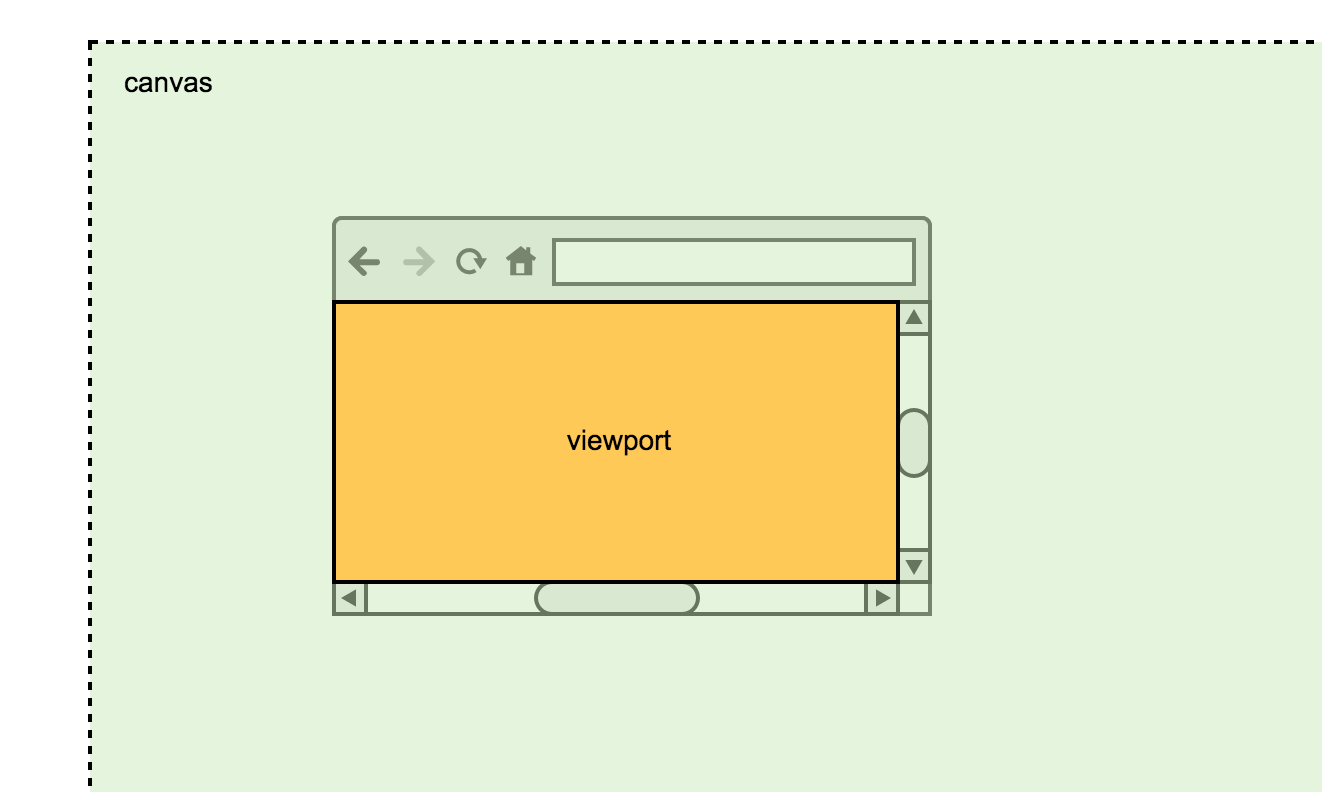
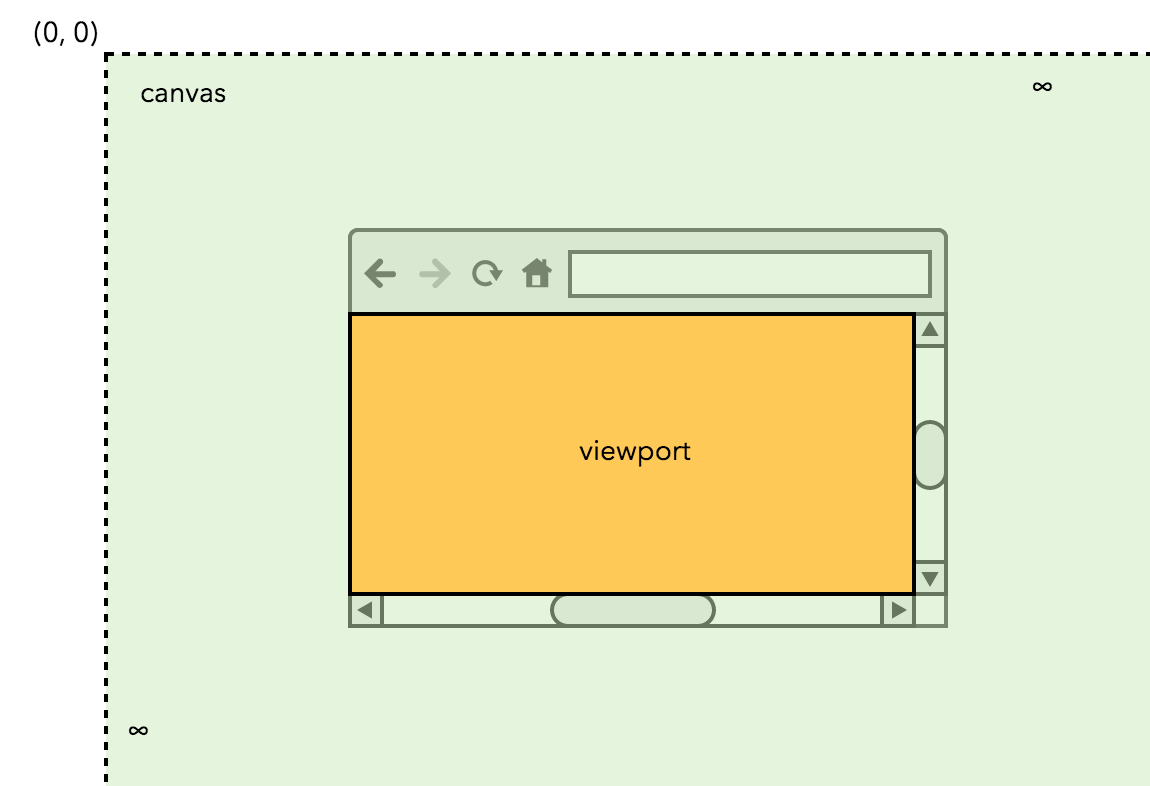
add content

Changed region(s): [[0.2435, 0.2748, 0.8217, 0.8244], [0.0304, 0.0305, 1.0, 1.0], [0.4261, 0.5496, 0.6087, 0.6107]]

diff --git a/writing-css/index.html b/writing-css/index.html
@@ -106,6 +106,7 @@
                         <li><span class="fa fa-check"></span> General knowledge</li>
                         <li><span class="fa fa-check"></span> Syntax</li>
                         <li><span class="fa fa-check"></span> Cascading</li>
+                        <li><span class="fa fa-check"></span> Values &amp; units</li>
                         <li><span class="fa fa-check"></span> Layout basics</li>
                         <li><span class="fa fa-close"></span> Rendering details</li>
                     </ul>
@@ -527,13 +528,13 @@ a {
                         <figure><img src="img/rotate.png" alt="Rotate images according to its list order." style="width: 60%;"></figure>
                         <figure class="fragment" style="position: absolute; right: 20px; bottom: 0; width: 540px;">
                             <pre><code class="css">div:nth-child(2n+1) {
-    -webkit-transform: rotate(-10deg);
+    transform: rotate(-10deg);
 }
 div:nth-child(2n+2) {
-    -webkit-transform: rotate(10deg);
+    transform: rotate(10deg);
 }
 div:nth-child(2n+3) {
-    -webkit-transform: rotate(0);
+    transform: rotate(0);
 }
 </code></pre>
                         </figure>
@@ -649,13 +650,30 @@ p.row :hover {
                     <section>
                         <h3>Defaulting</h3>
                         <ul class="fragment">
-                            <li>initial value</li>
-                            <li>inherited value</li>
-                            <li><code>inherit</code> keyword</li>
+                            <li class="fragment">initial value</li>
+                            <li class="fragment">inherited value</li>
+                            <li class="fragment"><code>inherit</code> keyword</li>
                         </ul>
+                        <p class="fragment"><em>Computed value</em> of the parent element</p>
+                        <pre class="fragment"><code class="css">.post {
+    font-size: 16px;
+    line-height: 2;    /* Which   */
+    line-height: 200%; /* to      */
+    line-height: 2em;  /* choose? */
+}
+</code></pre>
+                    </section>
+
+                    <section>
+                        <h4>Inherited value</h4>
                         <figure class="fragment">
-                            <img src="img/line-height.png" alt="line-height is defined with inital value of normal and is inherited.">
+                            <img src="img/line-height.png" alt="line-height is defined with initial value of normal and is inherited.">
                         </figure>
+                        <ul>
+                            <li class="fragment"><code>font-size: 2</code><br>Specified → <code>2</code></li>
+                            <li class="fragment"><code>font-size: 200%</code><br><code>font-size: 2em</code><br>Absolute → 2 * 16px = <code>32px</code></li>
+                        </ul>
+                        <p class="fragment"></p>
                     </section>
 
                     <section>
@@ -665,6 +683,7 @@ p.row :hover {
                             <li class="fragment">Origin/importance > specificity > order</li>
                             <li class="fragment">Author > user > UA, <em>reversed</em> when important</li>
                             <li class="fragment">Count <em>simple selectors/pseudo elements</em> to calculate specificity</li>
+                            <li class="fragment">Inherited values are <em>computed values</em> of the parent</li>
                         </ul>
                     </section>
 
@@ -725,7 +744,7 @@ p.row :hover {
 
                     <section>
                         <h4>Relative lengths</h4>
-                        <p><code>em</code>, <code>ex</code>, <code>ch</code>, <code>rem</code>, <code>vw</code>, <code>vh</code>, ...</p>
+                        <p class="fragment"><code>em</code>, <code>ex</code>, <code>ch</code>, <code>rem</code>, <code>vw</code>, <code>vh</code>, ...</p>
                         <figure class="fragment">
                             <img class="transparent" src="img/ex-ch.png" alt="ex is the x-height, ch is the width of character &quot;0&quot;" style="height: 360px;">
                             <figcaption><code>ex</code> and <code>ch</code></figcaption>
@@ -744,9 +763,9 @@ p.row :hover {
                     <section>
                         <h4>Colors: <span class="type">color</span></h4>
                         <ul>
-                            <li>Keywords<br><small><code style="color: lightgreen;">lightgreen</code>, <code style="color: gold">gold</code>, <code>currentColor</code>, <code style="color: transparent;">transparent</code> <sup>← transparent</sup>, ...</small></li>
-                            <li>Hexadecimal notation<br><small><code style="color: #69c;">#69c</code>, <code style="color: #abcdef;">#abcdef</code>, ...</small></li>
-                            <li>Functional notation<br><small><code style="color: rgb(200, 150, 100);">rgb(200, 150, 100)</code>, <code style="color: hsla(120, 100%, 50%, 0.5);">hsla(120, 100%, 50%, 0.5)</code>, ...</small></li>
+                            <li class="fragment">Keywords<br><small><code style="color: lightgreen;">lightgreen</code>, <code style="color: gold">gold</code>, <code>currentColor</code>, <code style="color: transparent;">transparent</code> <sup>← transparent</sup>, ...</small></li>
+                            <li class="fragment">Hexadecimal notation<br><small><code style="color: #69c;">#69c</code>, <code style="color: #abcdef;">#abcdef</code>, ...</small></li>
+                            <li class="fragment">Functional notation<br><small><code style="color: rgb(200, 150, 100);">rgb(200, 150, 100)</code>, <code style="color: hsla(120, 100%, 50%, 0.5);">hsla(120, 100%, 50%, 0.5)</code>, ...</small></li>
                         </ul>
                         <p class="fragment"><small>See more in <a href="http://dev.w3.org/csswg/css-color/">CSS Color Module Level 4</a>.</small></p>
                     </section>
@@ -778,7 +797,7 @@ p.row :hover {
 
                     <section>
                         <h2>Layout Basics</h2>
-                        <figure>
+                        <figure class="fragment">
                             <img src="img/canvas-viewport.png" alt="canvas and viewport" style="height: 380px;">
                             <figcaption>The canvas (not <code>&lt;canvas&gt;</code>) and the viewport</figcaption>
                         </figure>
@@ -808,9 +827,9 @@ p.row :hover {
                     <section>
                         <h3>Positioning Schemes</h3>
                         <ul>
-                            <li>Normal flow</li>
-                            <li>Floats</li>
-                            <li>Absolute positioning</li>
+                            <li class="fragment">Normal flow</li>
+                            <li class="fragment">Floats</li>
+                            <li class="fragment">Absolute positioning</li>
                         </ul>
                         <p class="fragment">Determined by <code>position</code> and <code>float</code></p>
                     </section>
@@ -892,15 +911,76 @@ p.row :hover {
 
                     <section>
                         <h4><code>position: absolute</code></h4>
+                        <ul>
+                            <li class="fragment">Closest parent with <code>position</code> other than <code>static</code><br><span class="fragment">or with <code>transform</code> other than <code>none</code></span></li>
+                        </ul>
+                        <figure class="fragment" style="margin-top: 0;">
+                            <img src="img/icb.png" alt="Initial containing block starts from the origin of the canvas and has the same size of the viewport." style="height: 380px;">
+                            <figcaption>no such parent → initial containing block</figcaption>
+                        </figure>
+                    </section>
 
+                    <section>
+                        <h5>Initial containing block</h5>
+                        <div data-height="320" data-theme-id="0" data-slug-hash="dooBPz" data-default-tab="css" data-user="Justineo" class='codepen'><pre><code>body {
+  width: 120%;
+  background-color: khaki;
+}
+
+.box {
+  position: absolute;
+  bottom: 10px;
+  right: 10px;
+  width: 64px;
+  height: 64px;
+  background-color: lightgreen;
+}
+</code></pre>
+<p>See the Pen <a href='http://codepen.io/Justineo/pen/dooBPz/'>dooBPz</a> by GU Yiling (<a href='http://codepen.io/Justineo'>@Justineo</a>) on <a href='http://codepen.io'>CodePen</a>.</p>
+                    </section>
+
+                    <section>
+                        <h4><code>position: fixed</code></h4>
+                        <ul>
+                            <li class="fragment">The viewport</li>
+                            <li class="fragment">Closest parent with <code>transform</code> other than <code>none</code></li>
+                        </ul>
+                    </section>
+
+                    <section>
+                        <h3>Recap</h3>
+                        <ul>
+                            <li class="fragment">The canvas &amp; the viewport</li>
+                            <li class="fragment">Box model &amp; <code>box-sizing</code></li>
+                            <li class="fragment">3 position schemes:<br>normal flow / floats / absolute positioning</li>
+                            <li class="fragment">BFC/IFC/FFC/...</li>
+                            <li class="fragment">Finding containing blocks for absolute positioning</li>
+                        </ul>
                     </section>
 
                 </section>
 
                 <section>
-                    <h2>Reference</h2>
-                    <ol>
-                    </ol>
+                    <h2>Summary</h2>
+                    <ul>
+                        <li>History</li>
+                        <li>Syntax</li>
+                        <li>Cascading</li>
+                        <li>Values &amp; units</li>
+                        <li>Layout basics</li>
+                    </ul>
+                </section>
+
+                <section>
+                    <h2>Further Reading</h2>
+                    <ul>
+                        <li><a href="http://www.w3.org/Style/CSS/current-work">CSS Specifications</a></li>
+                        <li><a href="http://www.w3.org/TR/CSS21/">Cascading Style Sheets Level 2 Revision 1 (CSS 2.1) Specification</a></li>
+                        <li><a href="http://www.w3.org/TR/css3-cascade/">CSS Cascading and Inheritance Level 3</a></li>
+                        <li><a href="http://www.w3.org/TR/selectors/">Selectors Level 3</a></li>
+                        <li></li>
+                        <li></li>
+                    </ul>
                 </section>
 
                 <section>
